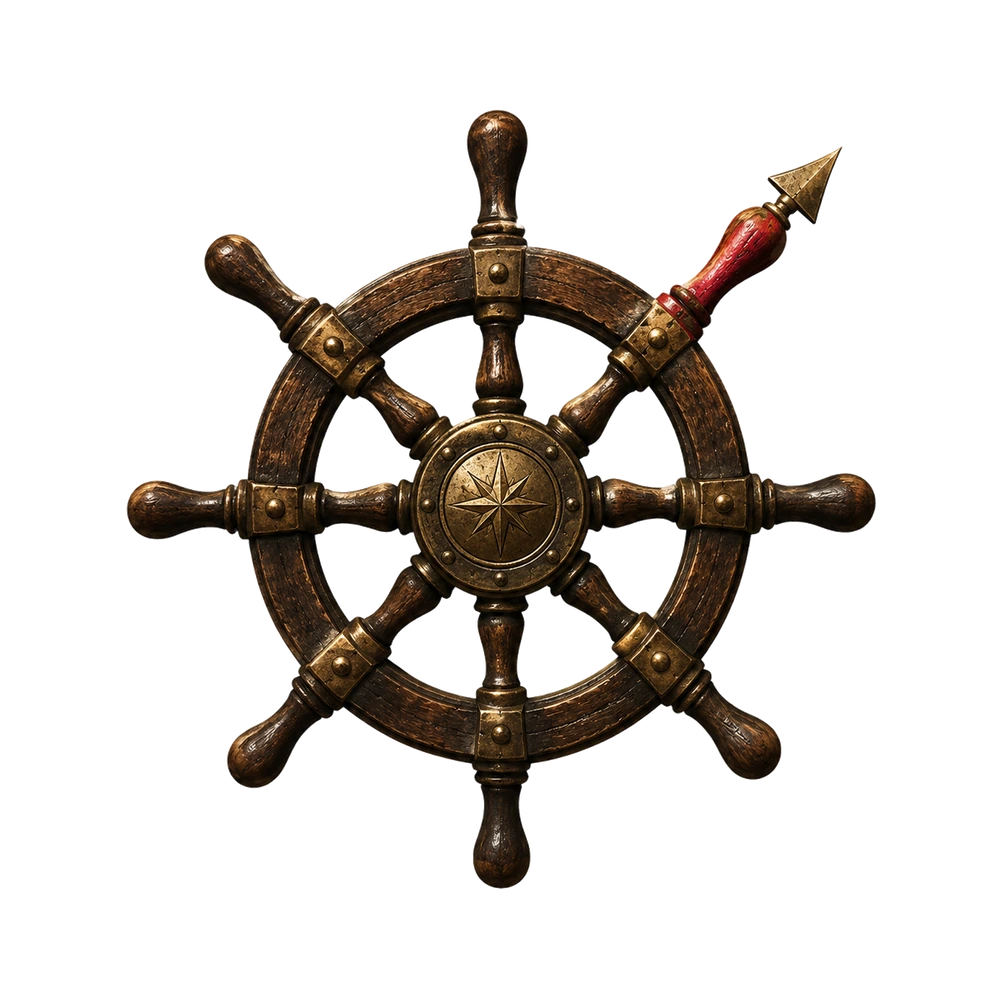
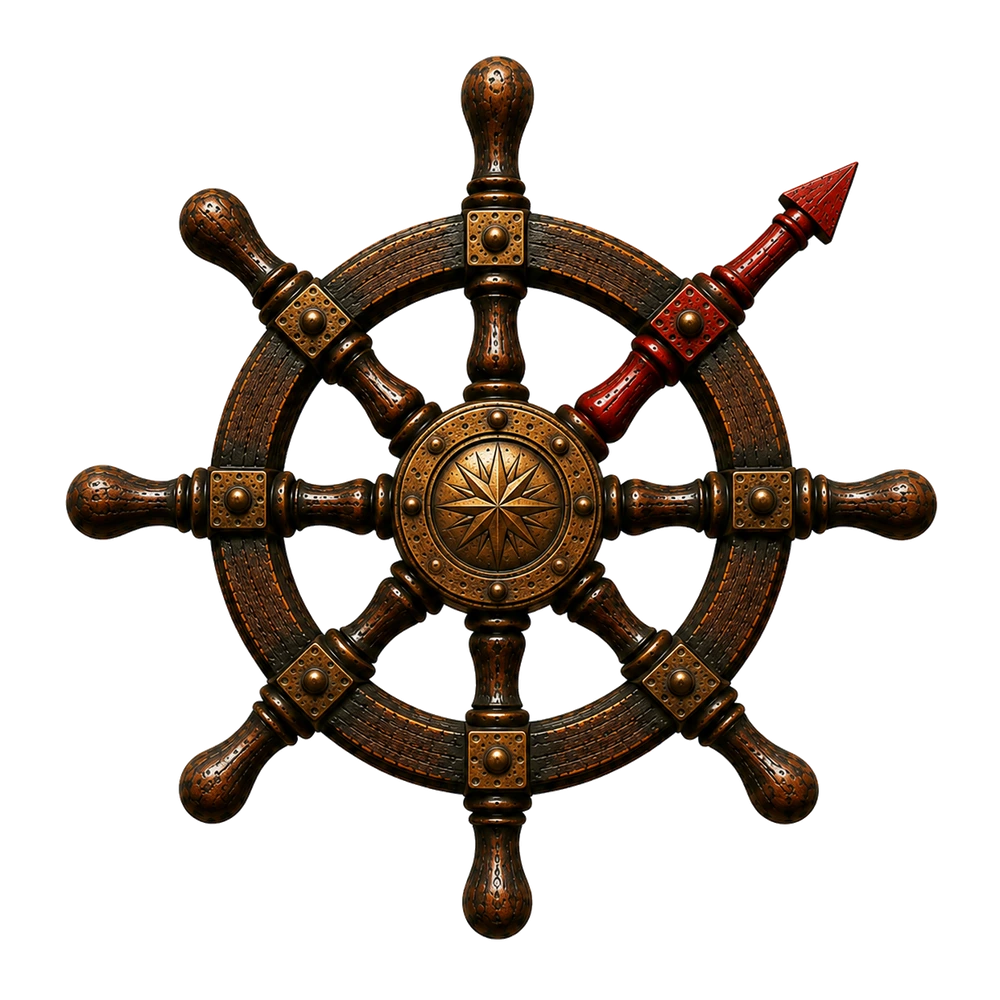
Skull King : le gouvernail repeint, les médaillons du salon à leur taille
La roue de tirage change de dessin. `briefs/detourer-volant.py` a tourné sans
un paramètre à changer — il détoure, recentre sur le moyeu et REMESURE la
flèche. C'est ce dernier point qui justifie le script : deux des trois valeurs
qu'il imprime ont bougé, et elles se reportent à la main. L'angle de la flèche
au repos passe de 43,95° à 46,70° (ROUE_FLECHE_DEG, que le JS soustrait pour
viser le bon médaillon : à 2,75° près la flèche s'arrête à côté, et sur une
table à huit il n'en faut pas plus pour désigner le voisin). Les poignées
montent de 0,749 à 0,871 du demi-côté ; la pointe ne bouge pas, et les
médaillons se posent toujours au large.

Le choix de pièce passe de 48 à 62 px sur la planche de l'équipage. À 48 les
médaillons étaient dessinés pour une colonne de téléphone : sur un écran
d'ordinateur, l'émail et la gravure — ce qu'on regarde justement pour choisir
— tombaient sous le seuil où on les distingue. Le côté et l'écart deviennent
deux variables réglées ensemble : la pièce retenue est agrandie par un
`transform`, qui ne prend pas de place dans la grille, elle déborde donc de sa
case et l'écart doit valoir au moins ce débordement. Le téléphone garde 48.

Changed region(s): [[0.062, 0.031, 0.961, 0.961]]

diff --git a/public/skullking.css b/public/skullking.css
@@ -3779,8 +3779,10 @@ h3 {
 /* La roue entière, flèche comprise. Elle occupe toute la boîte : le fichier
    est calé sur la pointe de la flèche (rayon 0,984 du demi-côté), donc la
    pointe affleure le bord quel que soit l'angle (elle balaie donc 207 px sur
-   les 420 de la roue), et les poignées tiennent à 0,749 — c'est l'espace
-   entre les deux qui laisse la flèche se détacher.
+   les 420 de la roue), et les poignées tiennent à 0,871 — c'est l'espace
+   entre les deux qui laisse la flèche se détacher. Les deux rayons sont
+   relevés par briefs/detourer-volant.py et réimprimés à chaque passage : la
+   roue peinte a déjà changé une fois, et les poignées avec elle.
 
    Départ vif puis très longue traîne : la roue part d'un coup et n'arrête
    plus vraiment de ralentir. La durée vient de --sk-roue-duree, posée par
@@ -4805,17 +4807,22 @@ h3 {
   max-width: 300px;
 }
 
+/* Le côté du médaillon et l'écart entre deux : posés en variables parce
+   qu'ils bougent ENSEMBLE. La pièce retenue est agrandie par un `transform`
+   — qui ne prend pas de place dans la grille — et déborde donc de sa case
+   d'un sixième de sa largeur de chaque côté ; l'écart doit valoir au moins
+   ça, sinon elle mord sur ses voisines. */
 .sk-piece-grid {
   display: grid;
   grid-template-columns: repeat(5, 1fr);
-  gap: 8px;
+  gap: var(--sk-piece-ecart, 8px);
   justify-items: center;
 }
 
 .sk-piece-btn {
   position: relative;
-  width: 48px;
-  height: 48px;
+  width: var(--sk-piece-cote, 48px);
+  height: var(--sk-piece-cote, 48px);
   padding: 0;
   display: flex;
   align-items: center;
@@ -7383,7 +7390,15 @@ h3 {
     margin-right: 0;
   }
 
+  /* La planche de l'équipage est la plus large des quatre : les médaillons y
+     passent de 48 à 62 px. À 48 ils étaient dessinés pour une colonne de
+     téléphone, et sur un écran d'ordinateur l'émail et la gravure — ce qu'on
+     regarde justement pour choisir — tombaient sous le seuil où on les
+     distingue. L'écart suit dans la même proportion, sinon la pièce retenue,
+     agrandie d'un tiers, viendrait mordre ses voisines. */
   .sk-lobby-col .sk-piece-picker {
+    --sk-piece-cote: 62px;
+    --sk-piece-ecart: 11px;
     margin-top: 0;
     margin-bottom: 16px;
   }

diff --git a/public/skullking.js b/public/skullking.js
@@ -5106,7 +5106,7 @@ const ROUE_LECTURE = 2600;    // ms pendant lesquelles le nom reste affiché
 // à chaque passage du script si la planche est regénérée. Sans cette
 // soustraction la roue s'arrête un huitième de tour trop loin, ce qui, sur
 // une table à huit, désigne pile le joueur suivant.
-const ROUE_FLECHE_DEG = 43.95;
+const ROUE_FLECHE_DEG = 46.70;
 
 // De quoi la flèche ne s'arrête jamais deux fois au même endroit du même
 // médaillon. La pièce en couvre une bonne dizaine de degrés vue du moyeu :

diff --git a/briefs/habillage-taverne.md b/briefs/habillage-taverne.md
@@ -552,3 +552,23 @@ n'en reste qu'un, celui qu'on lance.
 Les fichiers et leurs scripts (`recentrer-aiguille.py`, `decouper-feutres.py`)
 restent en place : les planches sont peintes, les découpages écrits, et c'est
 une décision d'habillage qui peut se reprendre.
+
+### Lot 6 — 28/08/2026 ✅ le gouvernail repeint
+
+`volant-sk.png` remplacé, `briefs/detourer-volant.py` relancé sans un
+paramètre à changer : il détoure, recentre sur le moyeu et **remesure** la
+flèche. C'est ce dernier point qui justifie le script — deux des trois
+valeurs qu'il imprime ont bougé, et elles se reportent à la main :
+
+| relevé | ancienne roue | nouvelle |
+|---|---|---|
+| angle de la flèche au repos | 43,95° | **46,70°** (`ROUE_FLECHE_DEG`) |
+| rayon de la pointe | 0,984 | 0,984 |
+| rayon des poignées | 0,749 | **0,871** |
+
+L'angle est celui que le JS soustrait pour viser le bon médaillon : à
+2,75° près la flèche s'arrête à côté, et sur une table à huit il ne faut pas
+beaucoup plus pour désigner le voisin. Les poignées, elles, montent : la
+flèche dépasse donc moins qu'avant (0,113 du demi-côté au lieu de 0,235),
+mais les médaillons se posent à 236 px pour une pointe à 207 — ils restent
+au large, rien à régler.
